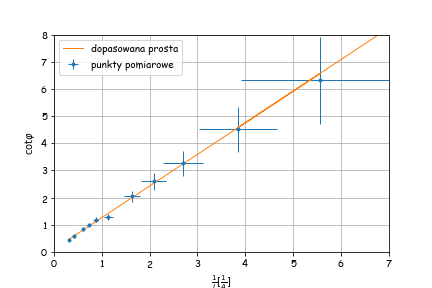
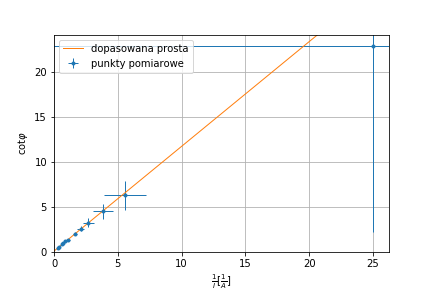
kompresja

diff --git a/09-46-Busola/tabelka_2.tex b/09-46-Busola/tabelka_2.tex
@@ -1,0 +1,18 @@
+\begin{tabular}{lrrrrrrr}
+\toprule
+{} &  \$arphi[\textasciicircum\textbackslashcirc]\$ &  I[A] &  \$\textbackslashDelta\$I[A] &  \$rac\{1\}\{I\}\$ &  \$\textbackslashDelta rac\{1\}\{I\}\$ &  \$\textbackslashcot\{arphi\}\$ &  \$\textbackslashDelta \textbackslashcot\{arphi\}\$ \\
+\midrule
+0  &               5.0 &  0.09 &        0.0518 &     11.111111 &             6.395062 &       11.430052 &               5.192901 \\
+1  &              16.0 &  0.29 &        0.0558 &      3.448276 &             0.663496 &        3.487414 &               0.519189 \\
+2  &              25.0 &  0.49 &        0.0598 &      2.040816 &             0.249063 &        2.144507 &               0.220854 \\
+3  &              27.5 &  0.57 &        0.0614 &      1.754386 &             0.188981 &        1.920982 &               0.185008 \\
+4  &              32.0 &  0.68 &        0.0636 &      1.470588 &             0.137543 &        1.600335 &               0.140470 \\
+5  &              38.0 &  0.88 &        0.0676 &      1.136364 &             0.087293 &        1.279942 &               0.104068 \\
+6  &              44.0 &  1.12 &        0.0724 &      0.892857 &             0.057717 &        1.035530 &               0.081745 \\
+7  &              50.0 &  1.36 &        0.0772 &      0.735294 &             0.041739 &        0.839100 &               0.067219 \\
+8  &              53.0 &  1.55 &        0.0810 &      0.645161 &             0.033715 &        0.753554 &               0.061845 \\
+9  &              57.0 &  1.78 &        0.0856 &      0.561798 &             0.027017 &        0.649408 &               0.056081 \\
+10 &              66.0 &  2.70 &        0.1040 &      0.370370 &             0.014266 &        0.445229 &               0.047265 \\
+11 &              70.0 &  3.33 &        0.1166 &      0.300300 &             0.010515 &        0.363970 &               0.044671 \\
+\bottomrule
+\end{tabular}

diff --git a/09-46-Busola/tabelka_3.tex b/09-46-Busola/tabelka_3.tex
@@ -1,0 +1,18 @@
+\begin{tabular}{lrrrrrrr}
+\toprule
+{} &  \$arphi[\textasciicircum\textbackslashcirc]\$ &  I[A] &  \$\textbackslashDelta\$I[A] &  \$rac\{1\}\{I\}\$ &  \$\textbackslashDelta rac\{1\}\{I\}\$ &  \$\textbackslashcot\{arphi\}\$ &  \$\textbackslashDelta \textbackslashcot\{arphi\}\$ \\
+\midrule
+0  &               2.5 &  0.04 &        0.0508 &     25.000000 &            31.750000 &       22.903766 &              20.732082 \\
+1  &              12.5 &  0.26 &        0.0552 &      3.846154 &             0.816568 &        4.510709 &               0.842032 \\
+2  &               9.0 &  0.18 &        0.0536 &      5.555556 &             1.654321 &        6.313752 &               1.611896 \\
+3  &              17.0 &  0.37 &        0.0574 &      2.702703 &             0.419284 &        3.270853 &               0.461457 \\
+4  &              21.0 &  0.48 &        0.0596 &      2.083333 &             0.258681 &        2.605089 &               0.307145 \\
+5  &              26.0 &  0.61 &        0.0622 &      1.639344 &             0.167159 &        2.050304 &               0.205267 \\
+6  &              38.0 &  0.88 &        0.0676 &      1.136364 &             0.087293 &        1.279942 &               0.104068 \\
+7  &              40.0 &  1.15 &        0.0730 &      0.869565 &             0.055198 &        1.191754 &               0.095470 \\
+8  &              45.0 &  1.35 &        0.0770 &      0.740741 &             0.042250 &        1.000000 &               0.078892 \\
+9  &              50.0 &  1.65 &        0.0830 &      0.606061 &             0.030487 &        0.839100 &               0.067219 \\
+10 &              60.0 &  2.43 &        0.0986 &      0.411523 &             0.016698 &        0.577350 &               0.052595 \\
+11 &              66.0 &  3.23 &        0.1146 &      0.309598 &             0.010984 &        0.445229 &               0.047265 \\
+\bottomrule
+\end{tabular}

diff --git a/09-46-Busola/tabelka_5.tex b/09-46-Busola/tabelka_5.tex
@@ -1,0 +1,18 @@
+\begin{tabular}{lrrrrrrr}
+\toprule
+{} &  \$arphi[\textasciicircum\textbackslashcirc]\$ &  I[A] &  \$\textbackslashDelta\$I[A] &  \$rac\{1\}\{I\}\$ &  \$\textbackslashDelta rac\{1\}\{I\}\$ &  \$\textbackslashcot\{arphi\}\$ &  \$\textbackslashDelta \textbackslashcot\{arphi\}\$ \\
+\midrule
+0  &               5.0 &  0.09 &        0.0518 &     11.111111 &             6.395062 &       11.430052 &               5.192901 \\
+1  &              16.0 &  0.29 &        0.0558 &      3.448276 &             0.663496 &        3.487414 &               0.519189 \\
+2  &              25.0 &  0.49 &        0.0598 &      2.040816 &             0.249063 &        2.144507 &               0.220854 \\
+3  &              27.5 &  0.57 &        0.0614 &      1.754386 &             0.188981 &        1.920982 &               0.185008 \\
+4  &              32.0 &  0.68 &        0.0636 &      1.470588 &             0.137543 &        1.600335 &               0.140470 \\
+5  &              38.0 &  0.88 &        0.0676 &      1.136364 &             0.087293 &        1.279942 &               0.104068 \\
+6  &              44.0 &  1.12 &        0.0724 &      0.892857 &             0.057717 &        1.035530 &               0.081745 \\
+7  &              50.0 &  1.36 &        0.0772 &      0.735294 &             0.041739 &        0.839100 &               0.067219 \\
+8  &              53.0 &  1.55 &        0.0810 &      0.645161 &             0.033715 &        0.753554 &               0.061845 \\
+9  &              57.0 &  1.78 &        0.0856 &      0.561798 &             0.027017 &        0.649408 &               0.056081 \\
+10 &              66.0 &  2.70 &        0.1040 &      0.370370 &             0.014266 &        0.445229 &               0.047265 \\
+11 &              70.0 &  3.33 &        0.1166 &      0.300300 &             0.010515 &        0.363970 &               0.044671 \\
+\bottomrule
+\end{tabular}
